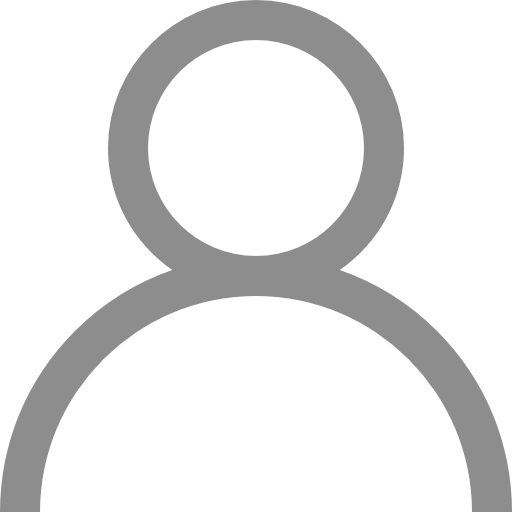
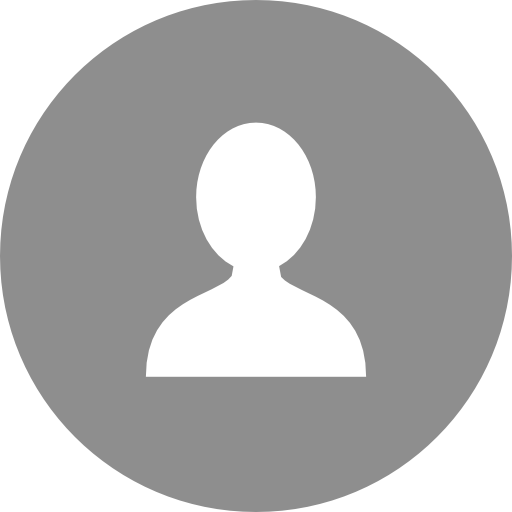
LOGIN page updated

diff --git a/templates/login.html b/templates/login.html
@@ -12,29 +12,31 @@
     <script src="{{ url_for('static',filename='js/bootstrap.min.js') }}"></script>
 </head>
 <body>
-
-    <div class="container">
-        <div class="row">
-            <div class="col-sm-6 col-md-4 mx-auto">
-                <div class="login-view-content">
-                    <img class="mx-auto d-block login-avatar" src="{{ url_for('static',filename='img/user.png') }}"
-                    alt="">
-                    <from class="login-form-content" action="" method="">
-                        <div class="from-group">
-                            <label for="loginUsername">Username</label>
-                            <input type="text" class="form-control" id="loginUsername" placeholder="Enter Username" autofocus required>
-                        </div>
-                        <div class="form-group login-content-margin">
-                            <label for="loginPassword">Password</label>
-                            <input type="password" class="form-control" id="loginPassword" placeholder="Enter Password" required>
-                        </div>
-                        <small class="form-text text-muted" hidden>Invalid Username or Password.</small>
-                        <div class="text-center">
-                            <div class="col-12">
-                                <button type="submit" class="btn btn-primary login-content-margin">LOGIN</button>
+    <div class="login-body">
+        <div class="container">
+            <div class="row">
+                <div class="col-sm-6 col-md-4 mx-auto">
+                    <div class="login-view-content">
+                        <!--<h4 class="text-center login-title">Account Login</h4>-->
+                        <img class="mx-auto d-block login-avatar" src="{{ url_for('static',filename='img/user.png') }}"
+                        alt="">
+                        <from class="login-form-content form-control" action="" method="">
+                            <div class="form-group">
+                                <label for="loginUsername">Username</label>
+                                <input type="text" class="form-control" id="loginUsername" placeholder="Enter Username" autofocus required>
                             </div>
-                         </div>
-                    </from>
+                            <div class="form-group login-content-margin">
+                                <label for="loginPassword">Password</label>
+                                <input type="password" class="form-control" id="loginPassword" placeholder="Enter Password" required>
+                            </div>
+                            <small class="form-text text-muted" hidden>Invalid Username or Password.</small>
+                            <div class="text-center">
+                                <div class="col-12">
+                                    <button type="submit" class="btn btn-primary login-content-margin">LOGIN</button>
+                                </div>
+                             </div>
+                        </from>
+                    </div>
                 </div>
             </div>
         </div>

diff --git a/static/css/style.css b/static/css/style.css
@@ -2,26 +2,77 @@
     margin: 0px;
     padding: 0px;
 }
+.login-body{
+	height: 100vh;
+	color: #fff;
+	background: linear-gradient(-45deg, #EE7752, #E73C7E, #23A6D5, #23D5AB);
+	background-size: 400% 400%;
+	-webkit-animation: Gradient 15s ease infinite;
+	-moz-animation: Gradient 15s ease infinite;
+	animation: Gradient 15s ease infinite;
+}
+@-webkit-keyframes Gradient {
+	0% {
+		background-position: 0% 50%
+	}
+	50% {
+		background-position: 100% 50%
+	}
+	100% {
+		background-position: 0% 50%
+	}
+}
+
+@-moz-keyframes Gradient {
+	0% {
+		background-position: 0% 50%
+	}
+	50% {
+		background-position: 100% 50%
+	}
+	100% {
+		background-position: 0% 50%
+	}
+}
+
+@keyframes Gradient {
+	0% {
+		background-position: 0% 50%
+	}
+	50% {
+		background-position: 100% 50%
+	}
+	100% {
+		background-position: 0% 50%
+	}
+}
 .login-view-content{
     margin-top: 15vh;
-    padding: 40px 20px 20px 20px;
+    padding: 30px 20px 30px 20px;
     background-color: #f7f7f7;
     -moz-box-shadow: 1px 2px 2px 1px rgba(0, 0, 0, 0.3);
     -webkit-box-shadow: 1px 2px 2px 1px rgba(0, 0, 0, 0.3);
     box-shadow: 1px 2px 2px 1px rgba(0, 0, 0, 0.3);
 }
+.login-title{
+    text-transform: uppercase;
+}
 .login-avatar{
     height: 80px;
     width: 80px;
     background-color: #E0E0E0;
-    padding: 10px;
-    border-radius: 25%;
+    padding: 10px ;
+    border-radius: 50%;
+    margin-bottom: 30px;
+    -moz-box-shadow: 0px 3px 2px rgba(0, 0, 0, 0.3);
+    -webkit-box-shadow: 0px 3px 2px rgba(0, 0, 0, 0.3);
     box-shadow: 0px 3px 2px rgba(0, 0, 0, 0.3);
 }
 .login-form-content{
     max-width: 330px;
     padding: 15px;
     margin: 0 auto;
+    border-radius: 15px;
 }
 .login-content-margin{
     margin-top: 15px;
